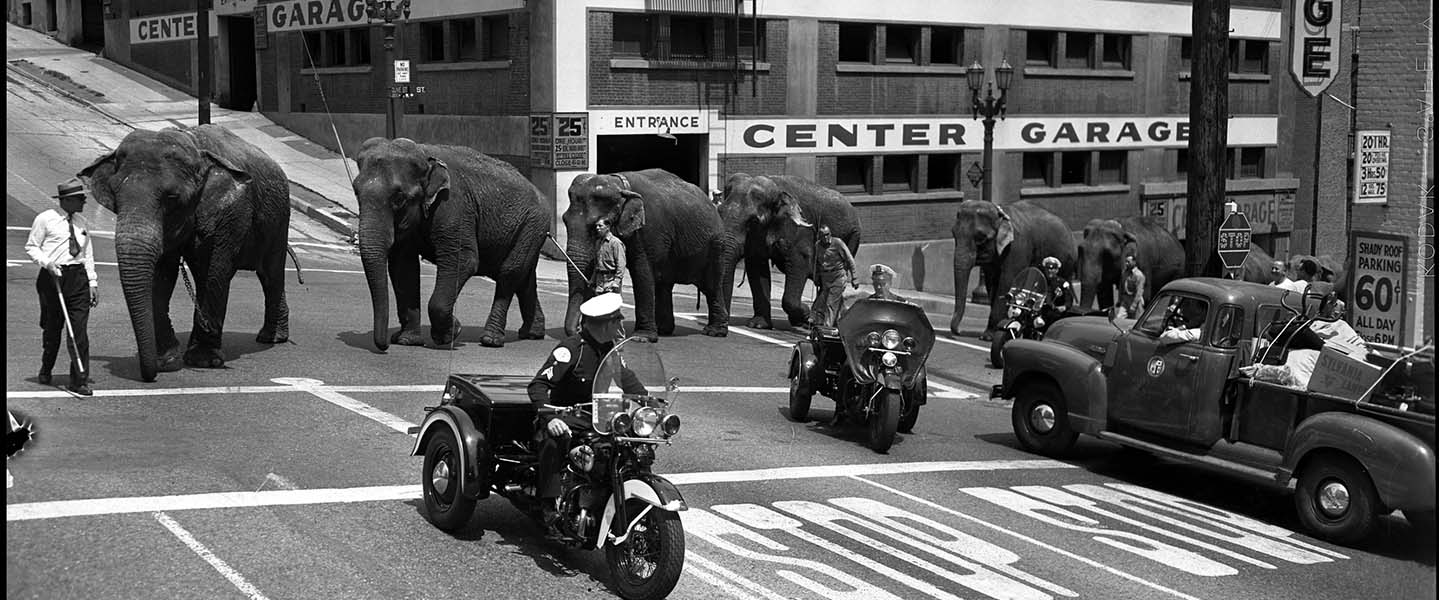
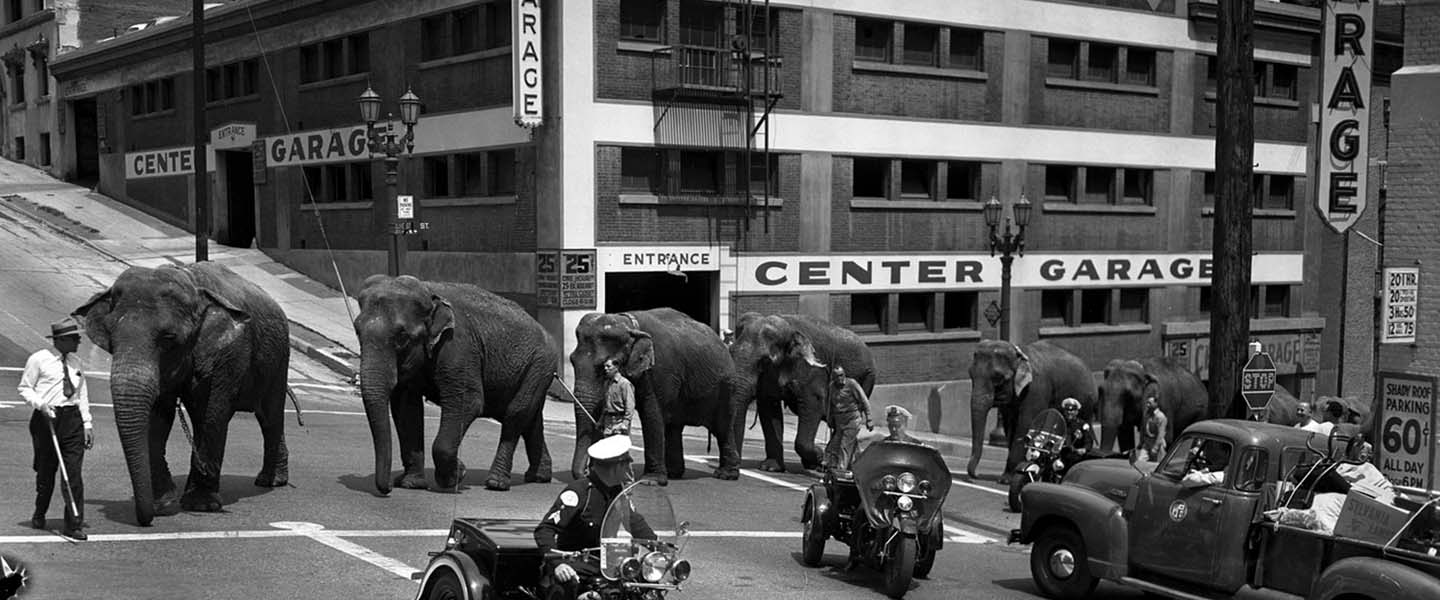
Create-text-overlay-over-homepage-header-image
Connected to [URS-416](https://jira.library.ucla.edu/browse/URS-416)

As a user, I want to see an introductory text box displayed over the homepage image.

---

+ modified:   app/assets/stylesheets/ursus/_header_image_block.scss
+ modified:   app/views/catalog/_jumbotron.html.erb
+ modified:   app/assets/images/ucla_ladnn_cole_brothers_circus_elephants.jpg
+ modified:   app/assets/stylesheets/ursus/_header_image_block.scss
+ modified:   app/views/catalog/_home_text.html.erb
+ modified:   app/views/catalog/_jumbotron.html.erb
+ new file:   app/views/catalog/_ucla_home_rectangle.html.erb
+ modified:   spec/system/view_home_page_spec.rb

diff --git a/app/assets/stylesheets/ursus/_header_image_block.scss b/app/assets/stylesheets/ursus/_header_image_block.scss
@@ -31,6 +31,66 @@
   height: 600px;
   max-height: 600px;
   margin-bottom: 0px !important;
-  z-index: -1000;
   margin-top: -6em;
+}
+
+.ucla-rectangle {
+  float: right;
+  max-height: 241px;
+  max-width: 630px;
+  background-color: rgba(0,0,0,0.73);
+  padding: 25px;
+  z-index: -500;
+  margin: 175px 20px 20px 20px;
+
+  h1 {
+    color: #F6F1F1;
+    font-size: 3em;
+    line-height: 1em;
+  }
+  span {
+    color: $ucla-lighter-blue;
+  }
+  p {
+    color: white;
+    font-family: Helvetica;
+    font-size: 16px;
+    letter-spacing: 0.5px;
+    line-height: 19px;
+    text-align: left !important;
+  }
+}
+
+@media screen and (max-width: 1088px) {
+  .ucla-rectangle {
+    float: none;
+    margin-top: 63px;
+    margin-left: auto;
+    margin-right: auto;
+    padding: 15px;
+    max-width: 75%;
+    max-height: 210px;
+    h1 {
+      color: #F6F1F1;
+      font-size: 2em;
+      line-height: 1em;
+    }
+  }
+}
+
+@media screen and (max-width: 547px) {
+  .ucla-rectangle {
+    float: none;
+    margin-top: 63px;
+    margin-left: auto;
+    margin-right: auto;
+    padding: 15px;
+    max-width: 95%;
+    max-height: 210px;
+    h1 {
+      color: #F6F1F1;
+      font-size: 1.75em;
+      line-height: 1em;
+    }
+  }
 }

diff --git a/spec/system/view_home_page_spec.rb b/spec/system/view_home_page_spec.rb
@@ -10,7 +10,7 @@ RSpec.describe 'viewing the home page', :clean, type: :system, js: false do
 
   it 'has h1' do
     visit('/')
-    expect(page).to have_selector 'h1', text: 'UCLA Library Digital Collections'
+    expect(page).to have_content 'UCLA Library Digital Collections'
   end
 
   it 'has an About link' do
